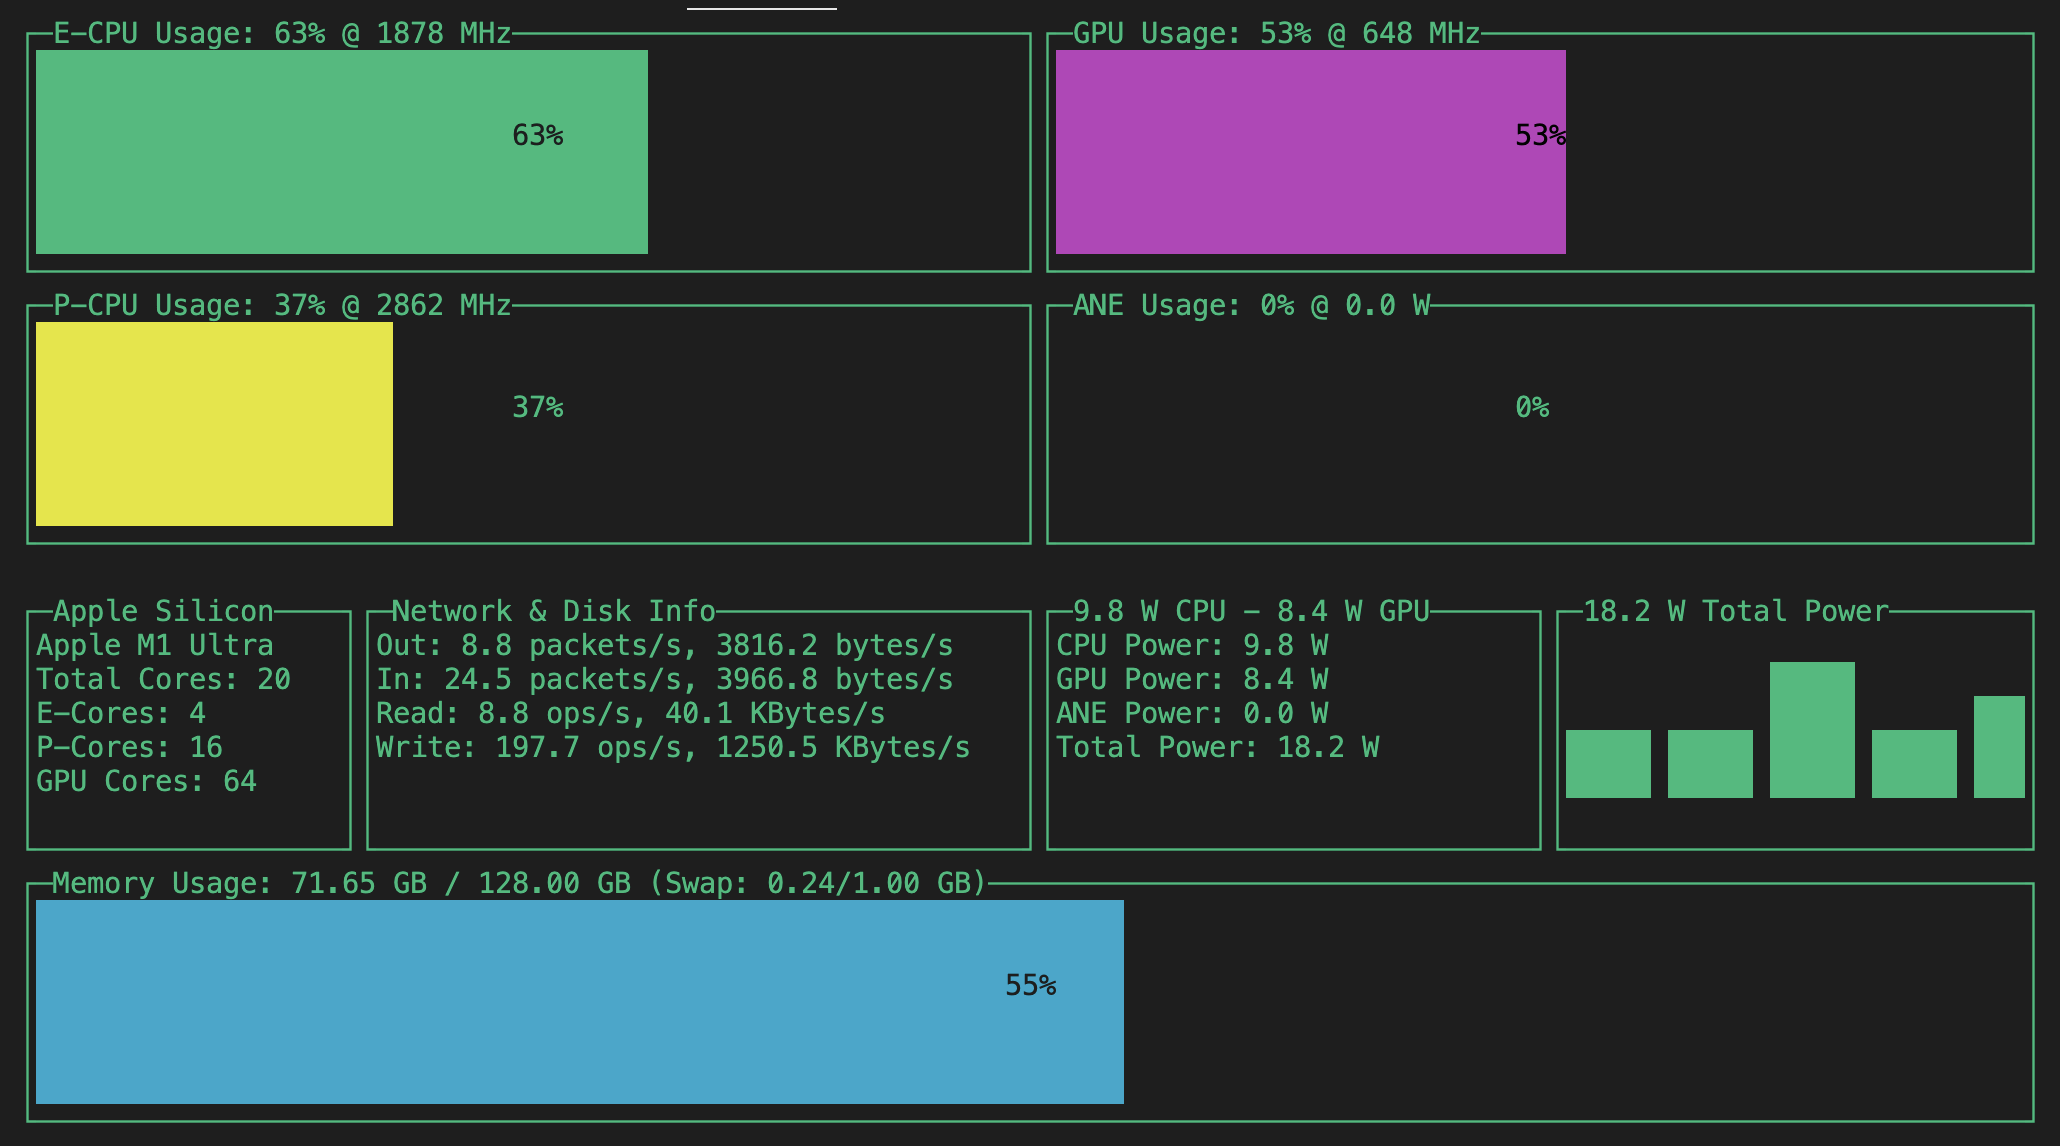
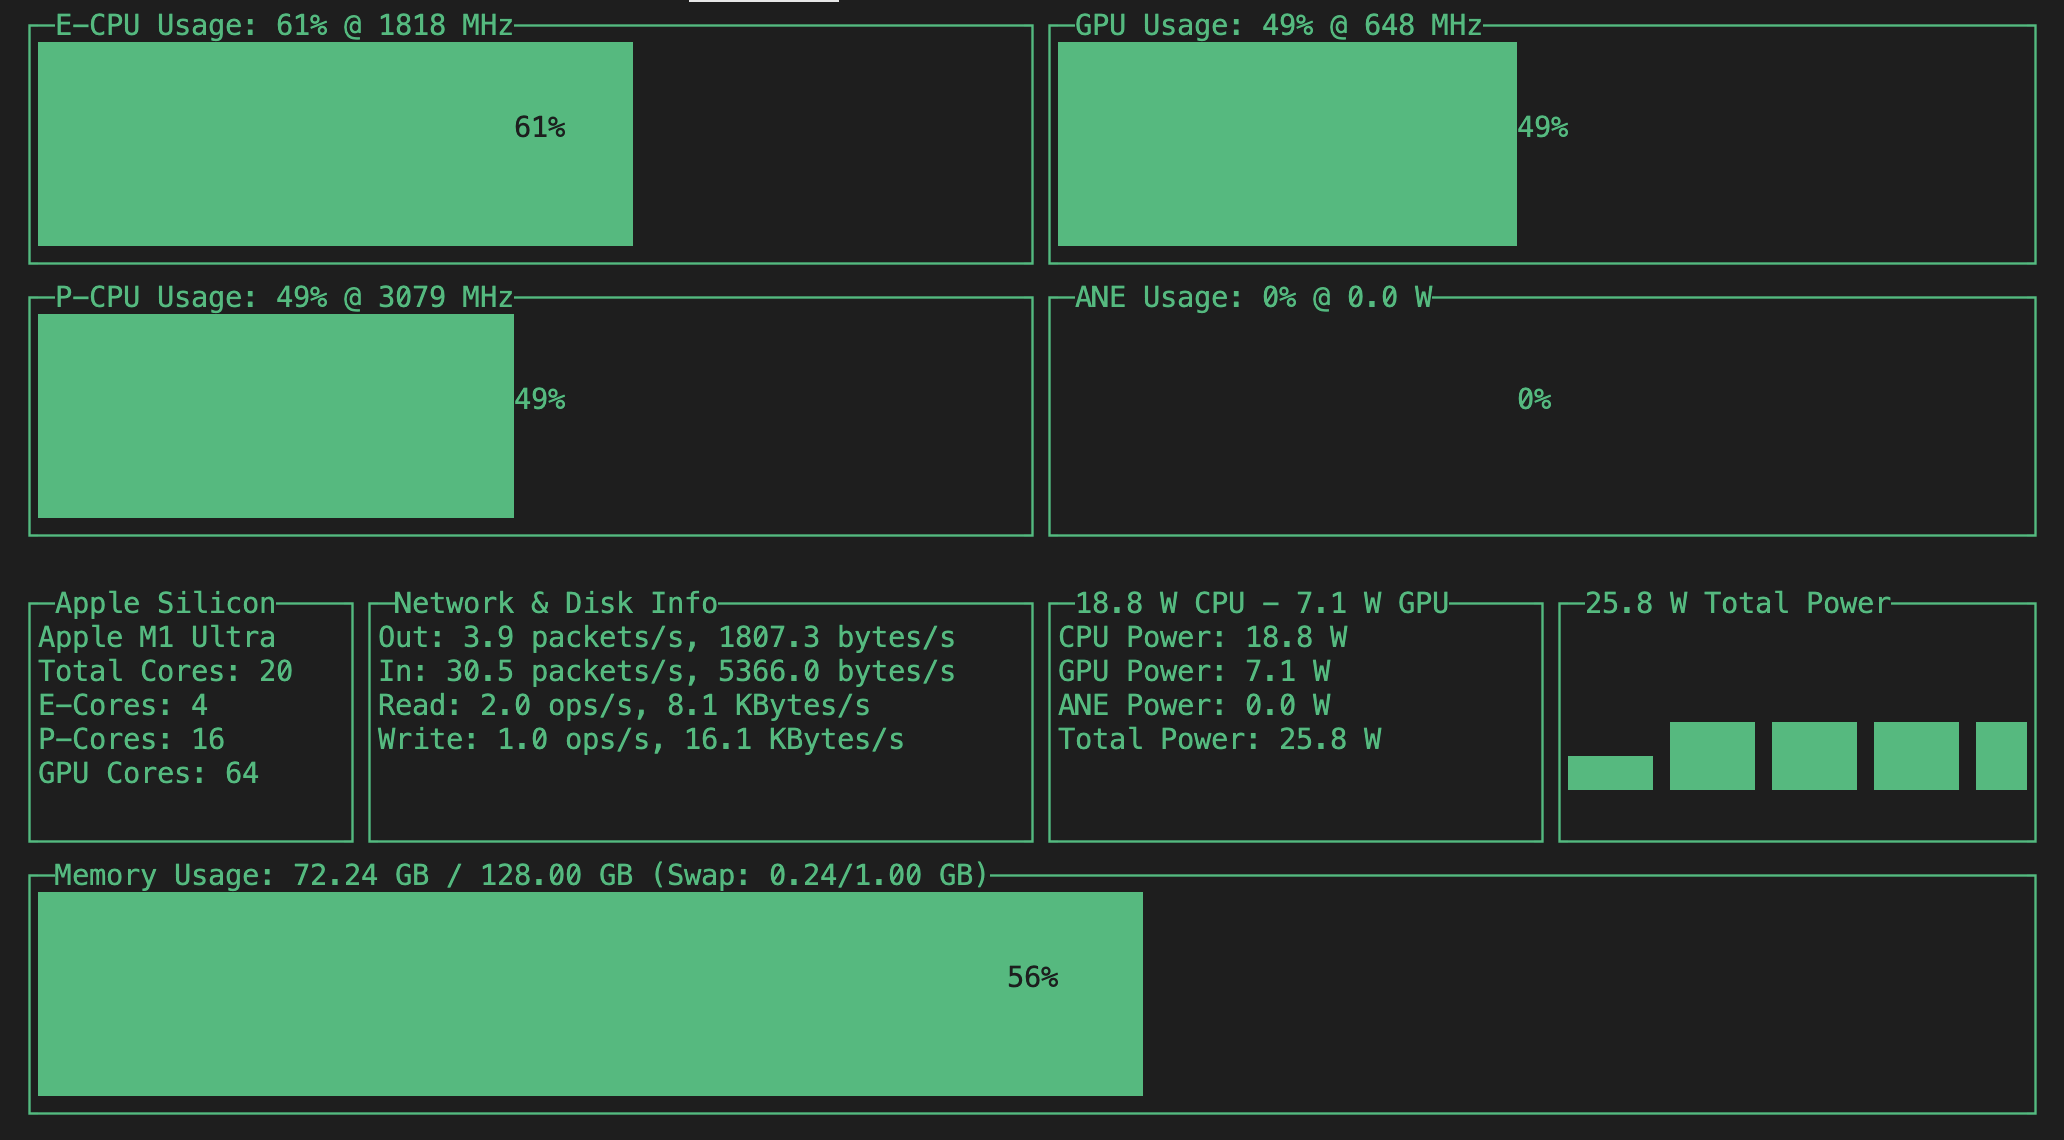
Update color themes

Changed region(s): [[0.0, 0.5219, 0.9942, 0.9825], [0.0, 0.0, 0.9942, 0.4912], [0.7146, 0.3377, 0.7456, 0.3684]]

diff --git a/main.go b/main.go
@@ -315,6 +315,37 @@ func main() {
 		ui.Theme.Paragraph.Text.Fg = color
 		ui.Theme.BarChart.Bars = []ui.Color{color}
 		ui.Theme.Gauge.Label.Fg = color
+		ui.Theme.Gauge.Bar = color
+		logfile, err := setupLogfile()
+		if err != nil {
+			stderrLogger.Fatalf("failed to setup log file: %v", err)
+		}
+		defer logfile.Close()
+
+		if err := ui.Init(); err != nil {
+			stderrLogger.Fatalf("failed to initialize termui: %v", err)
+		}
+		defer ui.Close()
+		StderrToLogfile(logfile)
+		setupUI()
+		cpu1Gauge.BarColor = color
+		cpu2Gauge.BarColor = color
+		aneGauge.BarColor = color
+		gpuGauge.BarColor = color
+		memoryGauge.BarColor = color
+	} else {
+		logfile, err := setupLogfile()
+		if err != nil {
+			stderrLogger.Fatalf("failed to setup log file: %v", err)
+		}
+		defer logfile.Close()
+
+		if err := ui.Init(); err != nil {
+			stderrLogger.Fatalf("failed to initialize termui: %v", err)
+		}
+		defer ui.Close()
+		StderrToLogfile(logfile)
+		setupUI()
 	}
 
 	if len(os.Args) > 1 && os.Args[1] == "--interval" || len(os.Args) > 1 && os.Args[1] == "-i" {
@@ -325,20 +356,6 @@ func main() {
 		}
 		updateInterval = interval
 	}
-
-	logfile, err := setupLogfile()
-	if err != nil {
-		stderrLogger.Fatalf("failed to setup log file: %v", err)
-	}
-	defer logfile.Close()
-
-	if err := ui.Init(); err != nil {
-		stderrLogger.Fatalf("failed to initialize termui: %v", err)
-	}
-	defer ui.Close()
-
-	StderrToLogfile(logfile)
-	setupUI() // Initialize UI components and layout
 	setupGrid()
 
 	termWidth, termHeight := ui.TerminalDimensions()

diff --git a/README.md b/README.md
@@ -85,7 +85,8 @@ sudo ./mactop
 ## mactop Flags
 
 - `--interval` or `-i`: Set the powermetrics update interval in milliseconds. Default is 1000. (For low-end M chips, you may want to increase this value)
-- `--color` or `-c`: Set the UI color. Default is white. Options are 'green', 'red', 'blue', 'cyan', 'magenta', 'yellow', and 'white'. (-c green)
+- `--color` or `-c`: Set the UI color. Default is white. 
+Options are 'green', 'red', 'blue', 'cyan', 'magenta', 'yellow', and 'white'. (-c green)
 - `--version` or `-v`: Print the version of mactop.
 - `--help` or `-h`: Show a help message about these flags and how to run mactop.
 
